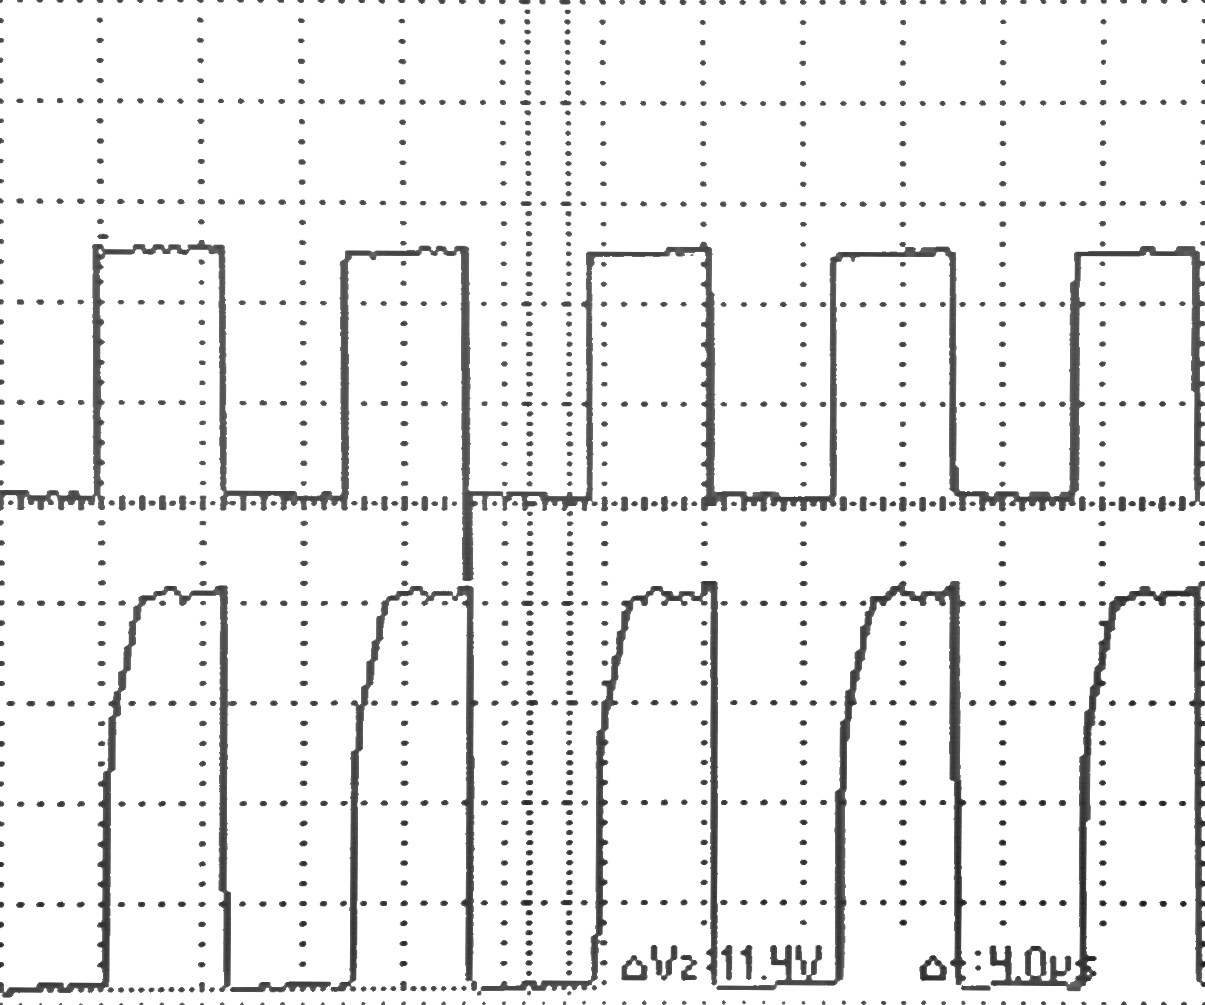
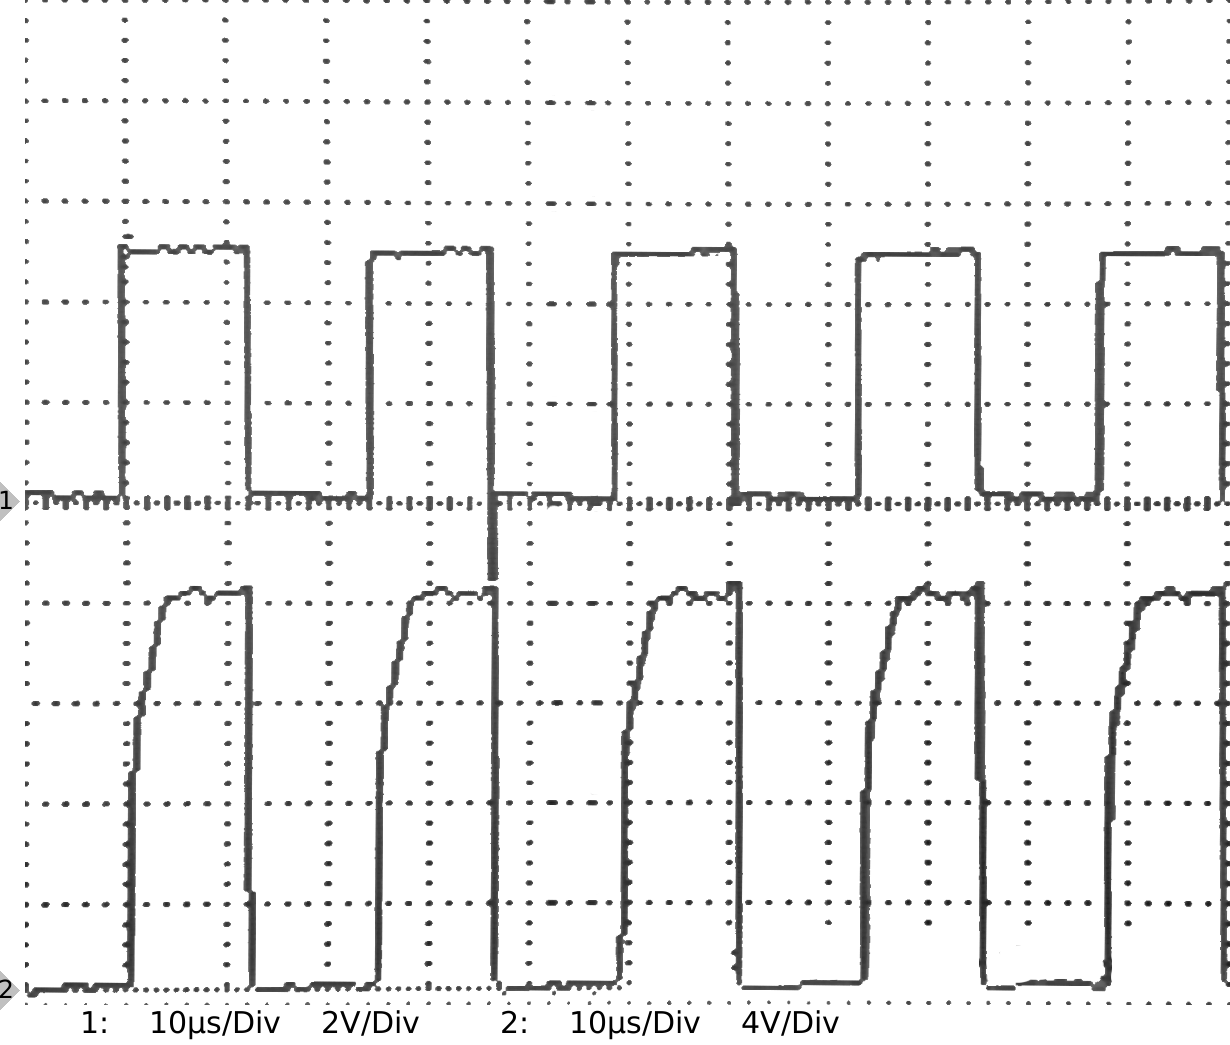
Beschriftung der Oszi-Bilder

diff --git a/doku/content/03_schaltungen.tex b/doku/content/03_schaltungen.tex
@@ -111,7 +111,7 @@ Die Verstärkerschaltung setzt das Ansteuersignal von $0..5V$ auf $-8..+12V$ um,
 Die Gegentakt-Ausgangsstufe ist im Vergleich zu den bisherigen Schaltungen sehr aufwändig. Mit ihr lassen sich sehr große Lasten schalten, gleichzeitig ist sie sehr stromsparend. Sie ist leistungsmäßig für diesen Zweck jedoch überdimensioniert, die leistungsschwächere Ausgangsstufe von einem oder mehreren Logik-ICs hätten diesen Zweck auch erfüllen können.
 
 
-\subsection{Oberwellen und der Kampf gegen Windmühlen} %TODO Zeit!
+\subsection{Oberwellen und Schwingungen} %TODO Zeit!
 Der Grund, der zur Entwicklung von leistungsstärkeren Verstärkern führte, waren die unbefriedigenden Signalverläufe am Ausgang der Sendeverstärkers. Die Pegel wurden nur teilweise erreicht und nicht gehalten. Der Fehler war, dass dafür die falschen Ursachen angenommen wurden. Schwingungen durch Oberwellen aus den steilen Flanken wurden zu Beginn aus mehreren Gründen ausgeschlossen:
 \begin{itemize}
 	\item Das Datenblatt empfiehlt die Ansteuerung der Sender mit Rechtecksignalen
@@ -129,7 +129,7 @@ Die unsauberen Pegel innerhalb der Pulse deuten darauf hin, dass es auch zu Schw
 \end{figure}
 
 \subsubsection{Lösung}
-Um Oberwellen zu vermeiden, können die Sender statt mit Rechtecksignalen mit einem Sinus angesteuert werden. Die meisten hochfrequenten Anteile lassen sich auch schon mit einem Tiefpass entfernen, der die Flanken etwas abflacht. Der Versuch die Verstärker immer leistungsfähiger zu machen, führte vielmehr dazu, dass noch mehr hochfrequente Anteile entstehen konnten. Es wurde versucht die Kapazitäten zu bekämpfen, die jedoch - wie die Windmühlen aus Don Quijote\footnote{Roman von Miguel de Cervantes} - das echte Problem nicht darstellten.\\
+Um Oberwellen zu vermeiden, können die Sender statt mit Rechtecksignalen mit einem Sinus angesteuert werden. Die meisten hochfrequenten Anteile lassen sich auch schon mit einem Tiefpass entfernen, der die Flanken etwas abflacht. Der Versuch die Verstärker immer leistungsfähiger zu machen, führte vielmehr dazu, dass noch mehr hochfrequente Anteile entstehen konnten. Es wurde versucht die Kapazitäten zu bekämpfen, die jedoch das echte Problem nicht darstellten.\\
 Da im Datenblatt die Sender mit Rechtecksignalen angesteuert werden und die empfangenen Signale einem sauberen Sinus entsprechen, können die Oberwellen auch ignoriert werden. Der Grund hierfür ist, dass der Empfänger wiederum einen schmalen Frequenzbereich aufweist und das Signal filtert. Zudem ist es möglich, dass die Oberschwingungen nur auf der elektrischen Seite entstehen und die mechanischen Wellen davon unbeeinflusst bleiben. Ein Leistungsverlust der Nutzfrequenz durch die störenden Anteile kann jedoch nicht ausgeschlossen werden.\\
 Das Nachschwingen kann allerdings zu einem Problem werden, wenn die Signale den empfindlichen Empfänger beeinflussen, entweder durch mechanische oder elektrische Rückkopplung. Die mechanischen Schwingungen können reduziert werden, indem zwischen Sender und Empfänger eine größere Distanz eingehalten wird und durch Schaumstoff zwischen ihnen mögliche akustische Wellen gedämpft werden. Elektrische Störungen werden mit Abblock-Kondensatoren geschwächt. Sie befinden sich zwischen den Versorgungsspannungen und der Masse und schließen hochfrequente Anteile kurz. Ansonsten muss eine Totzeit berücksichtigt werden, bis der Empfänger das Nutzsignal ohne Störungen empfangen kann. Im Datenblatt wird eine minimale Distanz der Messungen von $20cm$ angegeben, wahrscheinlich genau aus den genannten Gründen.
 \begin{figure}[H]
@@ -141,7 +141,7 @@ Das Nachschwingen kann allerdings zu einem Problem werden, wenn die Signale den 
 
 % Section über Empfänger und Signalauswertung
 \section{Empfänger}
-Der Empfänger ist einer der wichtigsten Bausteine bei der Abstandsmessung mit Ultraschall. Nur durch eine zuverlässige Signalverarbeitung kann der Zeitpunkt exakt bestimmt werden, an dem das Signal eingetroffen ist. Im Prinzip gibt es zwei Möglichkeiten die Signalauswertung durchzuführen:
+Der Empfänger ist einer der wichtigsten Bausteine bei der Abstandsmessung mit Ultraschall. Nur durch eine zuverlässige Signalverarbeitung kann der Zeitpunkt exakt bestimmt werden, an dem das Signal eingetroffen ist. Im Prinzip gibt es zwei Möglichkeiten, die Signalauswertung durchzuführen:
 \begin{description} % FIXME: Vielleicht in eigenen sections sinnvoll
 	\item[Signalauswertung per Software mit AD-Wandler:]\hspace{1pt}\\
 	Das empfangene Signal wird vorverstärkt und ständig von einem AD-Wandler ausgelesen. Die Auswertung kann über einfache Schwellwerte bis hin zu komplexen Filterfunktionen, z.B. mithilfe einer Fourier-Transformation, beliebig aufwendig gestaltet werden. Eine Signalvorverarbeitung ist auch denkbar, z.B. Gleichrichten und Glätten, wenn nur die Auslenkung betrachtet wird. Software kann sich auf die Umgebungsbedingungen anpassen, ist jedoch ungenauer und langsamer als die entsprechende Hardwarelösung. Eine genaue Frequenzauswertung erfordert eine hohe Abtastrate und komplexe Software, die dementsprechend auch Rechenleistung benötigt.
@@ -198,7 +198,7 @@ Bei allen durchgeführten Experimenten wurden keinerlei Störsignale identifizie
 \end{figure}
 
 \subsubsection{Fazit}
-In bestimmten Anwendungsfällen macht es Sinn Perioden als einzelne Pulse zu verstärken. Für die Abstandsmessung ist diese Methode jedoch ungünstig, da sie exaktere Schaltungen benötigt und die Empfindlichkeit - und damit die Reichweite - eingeschränkt wird. Auch die verwendeten Operationsverstärker sind durch die geringe Slew-Rate ein Hindernis. Störsignale hingegen spielen keine Rolle, die aktiven Frequenzfilter können deshalb eingespart werden. Dadurch lassen sich auch potentielle Fehlerquellen und Seiteneffekte vermeiden.\\
+In bestimmten Anwendungsfällen macht es Sinn, Perioden als einzelne Pulse zu verstärken. Für die Abstandsmessung ist diese Methode jedoch ungünstig, da sie exaktere Schaltungen benötigt und die Empfindlichkeit - und damit die Reichweite - eingeschränkt wird. Auch die verwendeten Operationsverstärker sind durch die geringe Slew-Rate ein Hindernis. Störsignale hingegen spielen keine Rolle, die aktiven Frequenzfilter können deshalb eingespart werden. Dadurch lassen sich auch potentielle Fehlerquellen und Seiteneffekte vermeiden.\\
 Trotz den genannten Problemen, lassen sich mit dieser Schaltung sehr exakte Messungen in einer Spanne von $15cm$-$200cm$ durchführen. Die relative Genauigkeit befindet sich im Millimeter-Bereich, der absoluter Messfehler bewegt sich im Bereich von etwa $2cm$, abhängig von dem zu messenden Objekt.
 
 
@@ -206,7 +206,7 @@ Trotz den genannten Problemen, lassen sich mit dieser Schaltung sehr exakte Mess
 \subsection{Zweiter Entwurf: Schaltung mit Integrierverstärker} \label{schaltung:integrator}
 
 \subsubsection{Änderungen}
-Einige Erkenntnisse aus der ersten Schaltung führten zu der neuen Lösung. Die Anforderungen wurden geändert und auf den Zweck der Abstandsmessung optimiert. Das Signal wurde nach einem ersten Vorverstärker gleichgerichtet und mit einem Tiefpass geglättet, sodass die Probleme der hohen Frequenzen wegfielen. Eine Frequenzfilterung mit einem aktiven Bandpass findet nicht mehr statt. Die Komplexität der Schaltung wurde deutlich minimiert, statt vier Operationsverstärker kommen nur noch zwei zum Einsatz und die Empfindlichkeit wird über ein einziges Potentiometer eingestellt, statt den ursprünglichen drei.
+Einige Erkenntnisse aus der ersten Schaltung führten zu der neuen Lösung. Die Anforderungen wurden geändert und auf den Zweck der Abstandsmessung optimiert. Das Signal wurde nach einem ersten Vorverstärker gleichgerichtet und mit einem Tiefpass geglättet, sodass die Probleme der hohen Frequenzen wegfielen. Eine Frequenzfilterung mit einem aktiven Bandpass findet nicht mehr statt. Die Komplexität der Schaltung wurde deutlich minimiert, statt vier Operationsverstärkern kommen nur noch zwei zum Einsatz und die Empfindlichkeit wird über ein einziges Potentiometer eingestellt, statt über den ursprünglichen drei.
 
 \begin{landscape}
 	\begin{figure}
@@ -218,7 +218,11 @@ Einige Erkenntnisse aus der ersten Schaltung führten zu der neuen Lösung. Die 
 
 \subsubsection{Funktionsweise}
 Ein empfangener Impuls wird über den Kondensator \textit{C1} aufsummiert. Über den parallelen Widerstand \textit{R8} fließt ein geringer Strom wieder ab, sodass sich der Kondensator langsam entlädt. Werden mehrere Pulse empfangen, steigt die Spannung soweit an, dass der darauf folgende Verstärker eine hohe Ausgangsspannung erzeugt. Diese wird über den Koppelkondensator \textit{C2} und dem Potentiometer, das die Offsetspannung für die Transistoren vorgibt, auf eine \textit{Darlington-Stufe} geleitet, die dank der doppelten Verstärkung von zwei Transistoren auch auf geringe Steuerströme reagiert. Sie wurde gewählt, um die Schaltung noch empfindlicher zu machen. Durch die integrierende Wirkung des Tiefpasses können kleine Impulse zu hohen Spannungen aufsummiert werden, sodass auch geringe Signalstärken verarbeitet werden können. Allerdings kann es dabei zu Verzögerungen kommen, da ein gewisser Spannungspegel erreicht werden muss und sich dieser Vorgang über mehrere Perioden hinziehen kann.
-
+\begin{figure}[h]
+	\centering
+	\includegraphics[width=(\textwidth), angle=0]{oszi/15-05-15/3.png}
+	\caption{Signalverlauf am Empfänger und am Integrierverstärker} \label{img:I12}
+\end{figure}
 
 
 \subsubsection{Fazit}

diff --git a/doku/content/04_platinen.tex b/doku/content/04_platinen.tex
@@ -5,17 +5,16 @@ Insgesamt wurden vier Platinen erstellt. Drei davon enthalten Sensoren, die vier
 
 
 \section{Prototyp-Platine}
-Die Prototyp-Platine war der erste Versuch ein voll-funktionsfähiges System aus den einzelnen Komponenten aufzubauen. Mit ihr sollten die Funktionen getestet, die Firmware für die Mikrocontroller entwickelt, sowie die Abstandsmessung in Reichweite, Genauigkeit und Zuverlässigkeit bewertet werden. Sie sollte im Standalone-Betrieb funktionieren, d.h. auch ohne einer Verbindung zu einem Computer selbstständig Messungen durchführen. Dafür bekam die Platine eine 7-Segment-Anzeige mit vier Ziffern, über die Messergebnisse ausgegeben werden können. Nachdem eine Verbindung mit dem Mikrocontroller hergestellt wurde, stoppt dieser die automatischen Messungen, sodass auch mit dieser Platine eine koordinierte Positionsbestimmung möglich ist.
+Die Prototyp-Platine war der erste Versuch ein voll-funktionsfähiges System aus den einzelnen Komponenten aufzubauen. Mit ihr sollten die Funktionen getestet, die Firmware für die Mikrocontroller entwickelt, sowie die Abstandsmessung in Reichweite, Genauigkeit und Zuverlässigkeit bewertet werden. Sie sollte im Stand-alone-Betrieb funktionieren, d.h. auch ohne einer Verbindung zu einem Computer selbstständig Messungen durchführen. Dafür bekam die Platine eine 7-Segment-Anzeige mit vier Ziffern, über die Messergebnisse ausgegeben werden können. Nachdem eine Verbindung mit dem Mikrocontroller hergestellt wurde, stoppt dieser die automatischen Messungen, sodass auch mit dieser Platine eine koordinierte Positionsbestimmung möglich ist.
 
-%TODO Bild von Platine mit Anzeige
 \begin{figure}[H]
 	\centering
-%	\includegraphics[width=(\textwidth)]{images/prototyp_2d.png}
+	\includegraphics[width=(0.6\textwidth)]{fotos/platine.jpg}
 	\caption{Prototyp-Platine mit Anzeige aus vier Ziffern} \label{img:prototype}
 \end{figure}
 
 \subsection{Aufbau}
-Die Platine enthält die Sende- und Empfängerschaltung, den Mikrocontroller mit Anzeige-LEDs und Reset-Knopf, sowie eine Pfostenstecker-Buchse zur Verbindung mit der Verteilerplatine. Die Anzeige wurde nachträglich hinzugefügt. Obwohl der Platinenentwurf sehr Platzsparend ist, wurde versucht die Schaltungen räumlich voneinander zu trennen. Dadurch können Wechselwirkungen verhindert werden.\\
+Die Platine enthält die Sende- und Empfängerschaltung, den Mikrocontroller mit Anzeige-LEDs und Reset-Knopf, sowie eine Pfostenstecker-Buchse zur Verbindung mit der Verteilerplatine. Die Anzeige wurde nachträglich hinzugefügt. Obwohl der Platinenentwurf sehr platzsparend ist, wurde versucht die Schaltungen räumlich voneinander zu trennen. Dadurch können Wechselwirkungen verhindert werden.\\
 Als Sendeschaltung ist die Gegentaktstufe (siehe \ref{schaltung:gegentakt}) zum Einsatz gekommen, da sie die leistungsfähigste Sendeschaltung ist und die höchste Reichweite verspricht. Die Empfangsschaltung wurde mit der Pulsverstärkung und Frequenzfilterung realisiert (\ref{schaltung:pulse}), da die Nachteile zu diesem Zeitpunkt noch nicht bekannt waren. Zudem sollte die Platine als Vorführobjekt auch Geschwindigkeiten über den Dopplereffekt messen können, dafür müssen die Pulse einzeln detektierbar sein.
 
 \begin{figure}[H]
@@ -25,7 +24,7 @@ Als Sendeschaltung ist die Gegentaktstufe (siehe \ref{schaltung:gegentakt}) zum 
 \end{figure}
 
 \subsection{Probleme}
-Das Löten des Platinenentwurfs stellte sich schwieriger heraus, als angenommen. Viele Komponenten wurden zu eng platziert, die Leiterbahnen waren zu verzweigt und es bestand die Gefahr eines Kurzschlusses. Außerdem wurden Sender und Empfänger zu nah aneinander platziert. Die Folge war, dass mechanische Schwingungen durch die Luft, aber auch über die Platine übertragen wurden. Abhilfe schaffte ein Stück Papier oder eine dünne Hartschaumplatte, die einen Großteil der Schwingungen reflektieren oder absorbieren lassen. Eine Totzeit zwischen Senden und Empfangen ließ sich dennoch nicht vermeiden, sodass die minimal messbare Distanz bei ca. $15cm$ liegt. Auch elektrische Wechselwirkungen wurden festgestellt. Zusätzliche Abblock-Kondensatoren direkt an der Stromversorgung der \acp{IC} konnten die Effekte eindämmen.
+Das Löten des Platinenentwurfs stellte sich schwieriger heraus, als angenommen. Viele Komponenten wurden zu eng platziert, die Leiterbahnen waren zu verzweigt und es bestand die Gefahr eines Kurzschlusses. Außerdem wurden Sender und Empfänger zu nah aneinander platziert. Die Folge war, dass mechanische Schwingungen durch die Luft, aber auch über die Platine übertragen wurden. Abhilfe schaffte ein Stück Papier oder eine dünne Hartschaumplatte, die einen Großteil der Schwingungen reflektieren oder absorbiert. Eine Totzeit zwischen Senden und Empfangen ließ sich dennoch nicht vermeiden, sodass die minimal messbare Distanz bei ca. $15cm$ liegt. Auch elektrische Wechselwirkungen wurden festgestellt. Zusätzliche Abblock-Kondensatoren direkt an der Stromversorgung der ICs konnten die Effekte eindämmen.
 
 
 \section{Sensorplatinen}
@@ -40,6 +39,12 @@ Die Sensorplatinen sind verkleinerte Versionen der Prototyp-Platine, wobei die S
 
 \subsection{Änderungen der Schaltungen}
 
+
+\begin{figure}[H]
+	\centering
+	\includegraphics[angle=270, width=(\textwidth)]{fotos/platine_klein2.jpg}
+	\caption{Fertige Sensorplatine} \label{img:endplatine_real}
+\end{figure}
 
 
 \section{Verteiler-Platine und Verkabelung}

diff --git a/doku/content/05_firmware.tex b/doku/content/05_firmware.tex
@@ -6,12 +6,12 @@
 
 \chapter{Firmware}
 Als Firmware wird die Software bezeichnet, welche auf dem Mikrocontroller ausgeführt wird. Sie läuft ohne Betriebssystem direkt auf der Hardware und kann in Assembler, C oder anderen hardwarenahen Programmiersprachen geschrieben werden. In diesem Fall wurde sie mit C und den dazugehörigen Bibliotheken für die AVR-Mikrocontroller entwickelt.\\
-Die Firmware hat die Aufgabe die Hardware des Controllers zu steuern. Sie ist in Module aufgeteilt, die jeweils für eine Hardwarekomponente zuständig sind:
+Die Firmware hat die Aufgabe, die Hardware des Controllers zu steuern. Sie ist in Module aufgeteilt, die jeweils für eine Hardwarekomponente zuständig sind:
 \begin{description} %TODO Eigene Überschriften statt description?
 	\item[LED-Statusanzeige:] \hfill \\Die LEDs werden über die \ac{GPIO}-Pins des AVR angesteuert. Per Software-\ac{PWM} lassen sich auch sanft pulsierende Signale realisieren. Damit kann der Controller mitteilen, in welchem Zustand er sich befindet und dass die Firmware nicht hängen geblieben ist.
-	\item[7-Segment-Anzeige:] Die Platine mit den vier 7-Segment-Ziffern zur Anzeige von Messergebnissen benötigt ein extra Modul, um diese Anzusteuern. Das geschieht über eine serielle Verbindung zu vier hintereinander geschalteten Schieberegistern. Die Werte werden per \ac{Bitbanging} über die \ac{GPIO}-Pins in die Register geschoben, diese haben parallele Ausgänge, die mit den Ziffern verbunden sind.
+	\item[7-Segment-Anzeige:] Die Platine mit den vier 7-Segment-Ziffern zur Anzeige von Messergebnissen benötigt ein extra Modul, um diese anzusteuern. Das geschieht über eine serielle Verbindung zu vier hintereinander geschalteten Schieberegistern. Die Werte werden per \textit{Bit-Banging} über die \ac{GPIO}-Pins in die Register geschoben, diese haben parallele Ausgänge, die mit den Ziffern verbunden sind.
 	\item[Signalerzeugung mit \ac{PWM}:] Das $40kHz$-Signal für den Ultraschallsender wird von der Mikrocontroller-Hardware erzeugt. Dazu wird ein Zähler benötigt, der bei einem Vergleichswert und beim Überlauf den Pegel eines Ausgangspins setzt. Die Firmware initialisiert und startet den Timer, die Erzeugung des Signals wird ausschließlich von der Hardware erledigt. Dadurch wird das Signal sehr präzise und die Rechenleistung des Mikrocontrollers steht für andere Zwecke zur Verfügung.
-	\item[Laufzeitmessung:] Für eine präzise Zeitmessung wird ein weiterer Hardwarezähler verwendet. Er wird in einer konstanten Frequenz inkrementiert, bis das Signal eingetroffen ist. Wenn das Zählerregister zu klein ist, kann bei einem Überlauf ein weiteres Register inkrementiert werden, damit die Messgenauigkeit und -Reichweite nicht durch die Software eingeschränkt werden müssen.
+	\item[Laufzeitmessung:] Für eine präzise Zeitmessung wird ein weiterer Hardwarezähler verwendet. Er wird in einer konstanten Frequenz inkrementiert, bis das Signal eingetroffen ist. Wenn das Zählerregister zu klein ist, kann bei einem Überlauf ein weiteres Register inkrementiert werden, damit die Messgenauigkeit und Reichweite nicht durch die Software eingeschränkt werden müssen.
 	\item[Signalerkennung:] Empfängt der Ultraschallempfänger ein Signal, so erhält der Mikrocontroller einen digitalen Puls. Auf einem Interrupt-Eingang löst die Flanke dieses Signals einen Sprung in der Firmware aus, sodass der Hardwarezähler sofort gestoppt werden kann. Ein Interrupt erhöht die Präzision der Messungen, da die Software alleine nur sequentiell den Signalpegel abfragen könnte und die Zeitpunkte ungenau werden. Zudem können die Flanken nicht aufgrund anderer Rechenaufwänden verpasst werden.
 	\item[\ac{TWI}-Kommunikation:] Die serielle Schnittstelle wird verwendet, um mit dem Raspberry Pi zu kommunizieren. Als Slave muss der Controller auf Anfragen reagieren, es können Messungen angefordert und Ergebnisse ausgelesen werden. Die AVR-Mikrontroller besitzen eine \ac{TWI}-Hardware, die von der Firmware genutzt wird.
 \end{description}

diff --git a/doku/content/09_inbetriebnahme.tex b/doku/content/09_inbetriebnahme.tex
@@ -3,3 +3,22 @@
 \chapter{Inbetriebnahme}
 
 %TODO Bild von kompletten Aufbau
+Der Bildschirm muss an den HDMI-Ausgang des Raspberry Pi angeschlossen werden (weißes Kabel). Anschließend wird das Flachbandkabel der Verteiler-Platine befestigt. Die Seite mit der roten Leitung muss bündig auf die Pins gesteckt werden, auf der anderen Seite bleiben einige Pins unbenutzt. Anschließend kann die Stromversorgung über das Mikro-USB-Kabel hergestellt werden (schwarzes Kabel). Der Computer startet daraufhin automatisch.\\
+\begin{figure}[H]
+	\centering
+	\includegraphics[width=(\textwidth), angle=0]{fotos/rasp.jpg}
+	\caption{Verkabelung des Raspberry Pi} \label{p:1}
+\end{figure}
+Die drei Sensorplatinen werden auf den oberen drei kleinen Steckplätzen der Verteiler-Platine befestigt, die Reihenfolge spielt dabei keine Rolle. Die übrigen zwei Steckplätze wurden verwendet, um die Mikrocontroller zu programmieren und werden nicht mehr benötigt. Anschließend wird die Stromversorgung eingesteckt, woraufhin die Platinen einige Signale über die LEDs ausgeben. Die kleinen Sensorplatinen wechseln in den Wartezustand, bis eine Verbindung mit ihnen aufgebaut wird (rote LED pulsiert). Die große Sensorplatine führt automatisch Distanzmessungen aus und zeigt die Ergebnisse auf der 7-Segment-Anzeige an. Sobald eine Verbindung (z.B. über die GUI) aufgebaut wurde, stoppen die automatischen Messungen, damit es zu keinen Signalüberlagerungen während der Positionsbestimmung kommt. Die Mikrocontroller können über den Reset-Knopf in ihren Ausgangszustand zurück gebracht werden.\\
+\begin{figure}[H]
+	\centering
+	\includegraphics[width=(\textwidth), angle=0]{fotos/verteiler.jpg}
+	\caption{Steckplätze der Verteiler-Platine} \label{p:2}
+\end{figure}
+Bei der Positionsbestimmung werden die Platinen in einem Dreieck angeordnet. Sie sind nummeriert und müssen gegen den Uhrzeigersinn geordnet sein. Positionen können innerhalb der eingespannten Fläche bestimmt werden, wobei eine Distanz von $15cm$ zu den Platinen eingehalten werden muss. \\
+\begin{figure}[h]
+	\centering
+	\includegraphics[width=(\textwidth), angle=0]{fotos/aufbau.jpg}
+	\caption{Aufbau und Anordnung bei der Positionsbestimmung} \label{p:3}
+\end{figure}
+In der GUI können die Positionen der Sensoren bestimmt werden, damit eine exakte Positionsbestimmung relativ zu ihnen möglich ist.

diff --git a/doku/dokumentation.tex b/doku/dokumentation.tex
@@ -74,8 +74,8 @@
 	\listoffigures
 
 	%Tabellenverzeichnis
-	\cleardoublepage
-	\listoftables
+%	\cleardoublepage
+%	\listoftables
 
 	% Quellcodeverzeichnis
 	\cleardoublepage

diff --git a/doku/content/10_schluss.tex b/doku/content/10_schluss.tex
@@ -1,4 +1,4 @@
 %!TEX root = ../dokumentation.tex
 
-\chapter{Schluss}
+%\chapter{Schluss}
 
